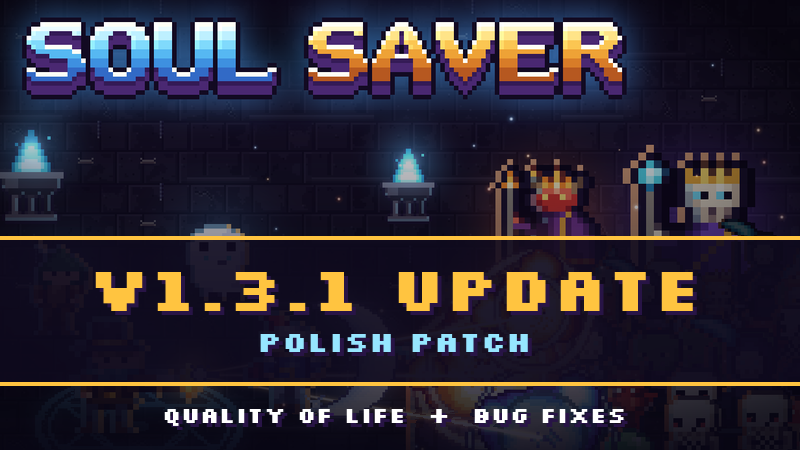
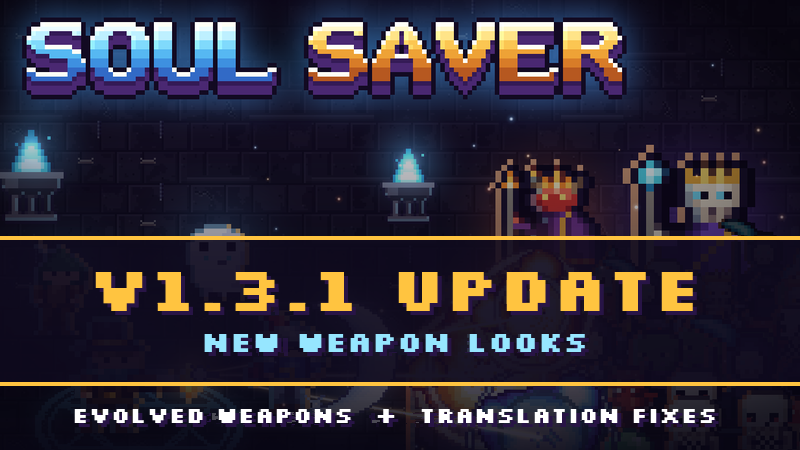
chore: 버전 1.5.6 — 진화 무기 손 그림 · 무기별 평타 동작 · 필살기 전용 도트 이펙트, 언어 전환 글 남음 일괄 수정, 한계 돌파 몹 체력 상승, 스팀 공지 V1.3.1 소규모(4개 언어 · 게임 안 패치노트 · 표시 이미지)

Changed region(s): [[0.0938, 0.9022, 0.9062, 0.9644], [0.25, 0.7156, 0.75, 0.8089]]

diff --git a/tools/patchnotes_steam.py b/tools/patchnotes_steam.py
@@ -10,6 +10,7 @@ ANN = os.path.join(ROOT, "docs", "steam", "announcements")
 
 # 스팀 게시판에 올라간 공지 (최신이 위) — 게임 안 「패치노트」 목록의 왼쪽 표시 · 공지 파일
 POSTS = [
+    ("v1.3.1", "v1.3.1.md"),
     ("v1.3", "v1.3.md"),
     ("v1.2.4", "v1.2.4.md"),
     ("v1.2.3", "v1.2.3.md"),

diff --git a/docs/steam/announcements/v1.3.1.md b/docs/steam/announcements/v1.3.1.md
@@ -1,0 +1,132 @@
+# 스팀 공지 — V1.3.1 (진화 무기 새 모습 · 번역 개선)
+
+종류: 게임 업데이트 · 소규모 업데이트 (사용자 「소규모 업데이트로 올려」) / 표시 이미지: docs/steam/art/events/v1.3.1_800x450.png / 빌드 연결: Default 브랜치 1.5.6
+공지 범위: 게임 1.5.4 ~ 1.5.6 (1.5.5 잠수함 패치 내용은 적지 않음 · 1.5.4 글자 깨짐 핫픽스는 버그 수정 한 줄)
+
+=== ko
+제목: V1.3.1 — 진화 무기 새 모습 · 번역 개선
+부제: 진화 무기의 모습과 동작, 필살기 효과를 새로 그리고, 언어를 바꿔도 남던 글자 문제를 고쳤습니다.
+본문:
+[h2]⚔ 진화 무기 새 모습[/h2]
+[list]
+[*]영웅 전용 무기로 진화하면 손에 든 무기도 그 무기 모습으로 바뀝니다.
+[*]평타 동작이 무기마다 달라집니다. (망치는 내려찍기, 창은 찌르기, 채찍은 휘감기, 병 · 소포는 던지기 등)
+[*]진화 무기 24종의 필살기와 평타 효과를 무기에 어울리는 새 도트 그림으로 바꿨습니다. (먹물 파도, 트럼프 카드, 갈라지는 땅, 측량 사슬, 시계판 등)
+[*]무기를 키울수록 새 효과도 단계마다 더 화려해집니다.
+[/list]
+[h2]🗺 지도 제작자[/h2]
+[list]
+[*]닫힌 도형(정밀 측량의 사각형 등)이 획에 가려지지 않고 또렷하게 보입니다.
+[*]「일필」처럼 도형이 닫히지 않는 판에서는 도형 전용 카드에 「지금은 효과 없음」이 표시되고, 덜 나옵니다.
+[/list]
+[h2]✨ 편의성 개선[/h2]
+[list]
+[*]어려움을 고르면 나오는 「영혼의 무게」 버튼을 다른 메뉴와 같은 모습으로 정돈했습니다.
+[/list]
+[h2]⚖ 밸런스 조정[/h2]
+[list]
+[*]무한 모드 한계 돌파 이후 잡몹 · 중간 보스 체력: 그대로 → 1분마다 ×1.15 (10분 ×4, 20분 ×16, 최대 ×10,000)
+[/list]
+[h2]🔧 버그 수정[/h2]
+[list]
+[*]언어를 바꿔도 레벨업 버튼 · 카드 이름 · HUD · 계약 · 튜토리얼 등 일부 글자가 이전 언어로 남던 문제를 고쳤습니다.
+[*]일부 환경에서 글자가 모두 깨지던 문제를 고쳤습니다.
+[*]뻐꾸기 · 비둘기가 왼쪽으로 날 때도 오른쪽을 보던 문제, 편지 비둘기가 세로로 서서 날던 문제를 고쳤습니다.
+[/list]
+[p]플레이해 주셔서 감사합니다![/p]
+
+=== en
+Title: V1.3.1 — New Look for Evolved Weapons · Translation Fixes
+Subtitle: Evolved weapons get new art, attack motions and ultimate effects, and text no longer stays in the old language after switching.
+Body:
+[h2]⚔ New Look for Evolved Weapons[/h2]
+[list]
+[*]When your hero evolves into a signature weapon, the weapon in their hand now changes to match.
+[*]Basic attack motions now differ by weapon (hammers slam, lances thrust, whips lash, flasks and parcels are thrown, and more).
+[*]The ultimates and basic attack effects of all 24 evolved weapons have new pixel art that fits each weapon (ink waves, playing cards, cracking ground, survey chains, clock faces and more).
+[*]These new effects also get flashier with each upgrade tier.
+[/list]
+[h2]🗺 Cartographer[/h2]
+[list]
+[*]Closed shapes (such as Precise Survey's squares) are now clearly visible instead of being hidden under your strokes.
+[*]In runs where shapes never close (such as Single Stroke), shape-only cards now say "No effect right now" and appear less often.
+[/list]
+[h2]✨ Quality of Life[/h2]
+[list]
+[*]The Soul Weight button that appears on Hard now matches the other menu buttons.
+[/list]
+[h2]⚖ Balance Changes[/h2]
+[list]
+[*]Endless mode, after Beyond the Limit — regular enemy and mid-boss HP: unchanged → ×1.15 every minute (×4 at 10 min, ×16 at 20 min, up to ×10,000)
+[/list]
+[h2]🔧 Bug Fixes[/h2]
+[list]
+[*]Fixed some text (level-up button, card names, HUD, contracts, tutorial and more) staying in the previous language after changing the language.
+[*]Fixed all text appearing broken on some systems.
+[*]Fixed cuckoos and pigeons facing right while flying left, and letter pigeons flying upright.
+[/list]
+[p]Thanks for playing![/p]
+
+=== ja
+タイトル: V1.3.1 — 進化武器の新しい見た目・翻訳の改善
+サブタイトル: 進化武器の見た目と動き、必殺技のエフェクトを描き直し、言語を変えても残っていた文字の問題を直しました。
+本文:
+[h2]⚔ 進化武器の新しい見た目[/h2]
+[list]
+[*]ヒーロー専用武器に進化すると、手に持つ武器もその武器の見た目に変わります。
+[*]通常攻撃の動きが武器ごとに変わります。(ハンマーは振り下ろし、槍は突き、鞭は巻きつけ、瓶や小包は投げるなど)
+[*]進化武器24種の必殺技と通常攻撃エフェクトを、武器に合った新しいドット絵にしました。(墨の波、トランプ、割れる大地、測量の鎖、時計の文字盤など)
+[*]武器を育てるほど、新しいエフェクトも段階ごとに華やかになります。
+[/list]
+[h2]🗺 地図職人[/h2]
+[list]
+[*]閉じた図形(精密測量の四角形など)が画線に隠れず、はっきり見えるようになりました。
+[*]「一筆」のように図形が閉じないプレイでは、図形専用カードに「今は効果がありません」と表示され、出にくくなります。
+[/list]
+[h2]✨ 利便性の改善[/h2]
+[list]
+[*]ハードを選ぶと出る「魂の重み」ボタンを、ほかのメニューと同じ見た目に整えました。
+[/list]
+[h2]⚖ バランス調整[/h2]
+[list]
+[*]エンドレスモード限界突破後の雑魚・中ボスの体力: 変化なし → 1分ごとに×1.15 (10分で×4、20分で×16、最大×10,000)
+[/list]
+[h2]🔧 バグ修正[/h2]
+[list]
+[*]言語を変えても、レベルアップボタン・カード名・HUD・契約・チュートリアルなど一部の文字が前の言語のまま残る問題を修正しました。
+[*]一部の環境で文字がすべて化ける問題を修正しました。
+[*]カッコウとハトが左に飛ぶときも右を向く問題、手紙のハトが縦向きに飛ぶ問題を修正しました。
+[/list]
+[p]プレイしていただきありがとうございます！[/p]
+
+=== zh
+标题: V1.3.1 — 进化武器新外观 · 翻译改进
+副标题: 重新绘制了进化武器的外观、动作和必杀技特效，并修复了切换语言后文字残留的问题。
+正文:
+[h2]⚔ 进化武器新外观[/h2]
+[list]
+[*]英雄进化为专属武器后，手中的武器也会变成对应的外观。
+[*]普通攻击的动作会因武器而异。(锤子下砸、长枪突刺、鞭子挥卷、瓶子和包裹投掷等)
+[*]24种进化武器的必杀技和普通攻击特效换成了贴合武器的新像素图。(墨浪、扑克牌、裂开的大地、测量锁链、钟面等)
+[*]武器培养得越强，新特效也会随阶段变得更华丽。
+[/list]
+[h2]🗺 制图师[/h2]
+[list]
+[*]闭合的图形(如精密测量的方形)不再被笔画遮住，看得更清楚。
+[*]在图形不会闭合的对局中(如「一笔」)，图形专用卡会显示「目前没有效果」，并且出现得更少。
+[/list]
+[h2]✨ 便利性改进[/h2]
+[list]
+[*]选择困难时出现的「灵魂之重」按钮已与其他菜单统一外观。
+[/list]
+[h2]⚖ 平衡调整[/h2]
+[list]
+[*]无尽模式突破极限后的杂兵 · 中首领生命值: 不变 → 每分钟 ×1.15 (10分钟 ×4，20分钟 ×16，最高 ×10,000)
+[/list]
+[h2]🔧 错误修复[/h2]
+[list]
+[*]修复了切换语言后，升级按钮 · 卡牌名称 · HUD · 契约 · 教程等部分文字仍停留在之前语言的问题。
+[*]修复了部分环境下所有文字显示乱码的问题。
+[*]修复了布谷鸟和鸽子向左飞时仍朝右的问题，以及信鸽竖着飞的问题。
+[/list]
+[p]感谢您的游玩！[/p]

diff --git a/docs/patch-notes/game/v1.5.6.md b/docs/patch-notes/game/v1.5.6.md
@@ -1,0 +1,106 @@
+# V1.3.1 — 진화 무기 새 모습 · 번역 개선
+진화 무기의 모습과 동작, 필살기 효과를 새로 그리고, 언어를 바꿔도 남던 글자 문제를 고쳤습니다.
+
+## 진화 무기 새 모습
+- 영웅 전용 무기로 진화하면 손에 든 무기도 그 무기 모습으로 바뀝니다.
+- 평타 동작이 무기마다 달라집니다. (망치는 내려찍기, 창은 찌르기, 채찍은 휘감기, 병 · 소포는 던지기 등)
+- 진화 무기 24종의 필살기와 평타 효과를 무기에 어울리는 새 도트 그림으로 바꿨습니다. (먹물 파도, 트럼프 카드, 갈라지는 땅, 측량 사슬, 시계판 등)
+- 무기를 키울수록 새 효과도 단계마다 더 화려해집니다.
+
+## 지도 제작자
+- 닫힌 도형(정밀 측량의 사각형 등)이 획에 가려지지 않고 또렷하게 보입니다.
+- 「일필」처럼 도형이 닫히지 않는 판에서는 도형 전용 카드에 「지금은 효과 없음」이 표시되고, 덜 나옵니다.
+
+## 편의성 개선
+- 어려움을 고르면 나오는 「영혼의 무게」 버튼을 다른 메뉴와 같은 모습으로 정돈했습니다.
+
+## 밸런스 조정
+- 무한 모드 한계 돌파 이후 잡몹 · 중간 보스 체력: 그대로 → 1분마다 ×1.15 (10분 ×4, 20분 ×16, 최대 ×10,000)
+
+## 버그 수정
+- 언어를 바꿔도 레벨업 버튼 · 카드 이름 · HUD · 계약 · 튜토리얼 등 일부 글자가 이전 언어로 남던 문제를 고쳤습니다.
+- 일부 환경에서 글자가 모두 깨지던 문제를 고쳤습니다.
+- 뻐꾸기 · 비둘기가 왼쪽으로 날 때도 오른쪽을 보던 문제, 편지 비둘기가 세로로 서서 날던 문제를 고쳤습니다.
+
+플레이해 주셔서 감사합니다!
+
+=== en
+# V1.3.1 — New Look for Evolved Weapons · Translation Fixes
+Evolved weapons get new art, attack motions and ultimate effects, and text no longer stays in the old language after switching.
+
+## New Look for Evolved Weapons
+- When your hero evolves into a signature weapon, the weapon in their hand now changes to match.
+- Basic attack motions now differ by weapon (hammers slam, lances thrust, whips lash, flasks and parcels are thrown, and more).
+- The ultimates and basic attack effects of all 24 evolved weapons have new pixel art that fits each weapon (ink waves, playing cards, cracking ground, survey chains, clock faces and more).
+- These new effects also get flashier with each upgrade tier.
+
+## Cartographer
+- Closed shapes (such as Precise Survey's squares) are now clearly visible instead of being hidden under your strokes.
+- In runs where shapes never close (such as Single Stroke), shape-only cards now say "No effect right now" and appear less often.
+
+## Quality of Life
+- The Soul Weight button that appears on Hard now matches the other menu buttons.
+
+## Balance Changes
+- Endless mode, after Beyond the Limit — regular enemy and mid-boss HP: unchanged → ×1.15 every minute (×4 at 10 min, ×16 at 20 min, up to ×10,000)
+
+## Bug Fixes
+- Fixed some text (level-up button, card names, HUD, contracts, tutorial and more) staying in the previous language after changing the language.
+- Fixed all text appearing broken on some systems.
+- Fixed cuckoos and pigeons facing right while flying left, and letter pigeons flying upright.
+
+Thanks for playing!
+
+=== ja
+# V1.3.1 — 進化武器の新しい見た目・翻訳の改善
+進化武器の見た目と動き、必殺技のエフェクトを描き直し、言語を変えても残っていた文字の問題を直しました。
+
+## 進化武器の新しい見た目
+- ヒーロー専用武器に進化すると、手に持つ武器もその武器の見た目に変わります。
+- 通常攻撃の動きが武器ごとに変わります。(ハンマーは振り下ろし、槍は突き、鞭は巻きつけ、瓶や小包は投げるなど)
+- 進化武器24種の必殺技と通常攻撃エフェクトを、武器に合った新しいドット絵にしました。(墨の波、トランプ、割れる大地、測量の鎖、時計の文字盤など)
+- 武器を育てるほど、新しいエフェクトも段階ごとに華やかになります。
+
+## 地図職人
+- 閉じた図形(精密測量の四角形など)が画線に隠れず、はっきり見えるようになりました。
+- 「一筆」のように図形が閉じないプレイでは、図形専用カードに「今は効果がありません」と表示され、出にくくなります。
+
+## 利便性の改善
+- ハードを選ぶと出る「魂の重み」ボタンを、ほかのメニューと同じ見た目に整えました。
+
+## バランス調整
+- エンドレスモード限界突破後の雑魚・中ボスの体力: 変化なし → 1分ごとに×1.15 (10分で×4、20分で×16、最大×10,000)
+
+## バグ修正
+- 言語を変えても、レベルアップボタン・カード名・HUD・契約・チュートリアルなど一部の文字が前の言語のまま残る問題を修正しました。
+- 一部の環境で文字がすべて化ける問題を修正しました。
+- カッコウとハトが左に飛ぶときも右を向く問題、手紙のハトが縦向きに飛ぶ問題を修正しました。
+
+プレイしていただきありがとうございます！
+
+=== zh
+# V1.3.1 — 进化武器新外观 · 翻译改进
+重新绘制了进化武器的外观、动作和必杀技特效，并修复了切换语言后文字残留的问题。
+
+## 进化武器新外观
+- 英雄进化为专属武器后，手中的武器也会变成对应的外观。
+- 普通攻击的动作会因武器而异。(锤子下砸、长枪突刺、鞭子挥卷、瓶子和包裹投掷等)
+- 24种进化武器的必杀技和普通攻击特效换成了贴合武器的新像素图。(墨浪、扑克牌、裂开的大地、测量锁链、钟面等)
+- 武器培养得越强，新特效也会随阶段变得更华丽。
+
+## 制图师
+- 闭合的图形(如精密测量的方形)不再被笔画遮住，看得更清楚。
+- 在图形不会闭合的对局中(如「一笔」)，图形专用卡会显示「目前没有效果」，并且出现得更少。
+
+## 便利性改进
+- 选择困难时出现的「灵魂之重」按钮已与其他菜单统一外观。
+
+## 平衡调整
+- 无尽模式突破极限后的杂兵 · 中首领生命值: 不变 → 每分钟 ×1.15 (10分钟 ×4，20分钟 ×16，最高 ×10,000)
+
+## 错误修复
+- 修复了切换语言后，升级按钮 · 卡牌名称 · HUD · 契约 · 教程等部分文字仍停留在之前语言的问题。
+- 修复了部分环境下所有文字显示乱码的问题。
+- 修复了布谷鸟和鸽子向左飞时仍朝右的问题，以及信鸽竖着飞的问题。
+
+感谢您的游玩！

diff --git a/docs/patch-notes/v1.5.6.md b/docs/patch-notes/v1.5.6.md
@@ -1,0 +1,25 @@
+# v1.5.6 (2026-10-23)
+
+스팀 공지 V1.3.1 (소규모 업데이트) — 게임 1.5.4 ~ 1.5.6
+
+## 진화 무기 그림 · 동작
+- 영웅 전용 무기로 진화하면 손에 든 무기 그림이 바뀜 — `Resources/Weapons/weapon_kit_<번호>` 24종 (`tools/pixelart/make_kit_weapons.py`, PlayerLook)
+- 무기별 평타 동작 (PlayerLook.KitMove): 망치 · 우체통 내려찍기, 창 · 독침 찌르기, 채찍 · 와이어 채찍질, 카드 튕기기, 병 · 투창 · 소포 던지기, 지구본 · 모래시계 돌리기, 시계 흔들기, 사슬 크게 돌리기, 비둘기 날려 보내기, 자석 · 유령 부풀기 (판정 · 시간 그대로)
+- 진화 무기 필살기 · 평타 덧효과의 범용 도형(원 웅덩이 · 충격파 고리 · 단색 선)을 무기 전용 도트 그림 34장으로 교체 + 진화 단계 그림 62장 (`tools/pixelart/make_kit_ults.py`, 교체표 `docs/art/진화무기-이펙트-교체표.md`)
+- 도박 카드 · 투창 형태 평타 투사체를 트럼프 카드 · 투창 그림으로 (판정은 표창 · 화살 그대로)
+- 뻐꾸기 · 비둘기 방향 (`Fx.SpawnFacing`), 편지 비둘기가 세로로 서던 것
+- 재사용 이펙트를 꺼낼 때 뒤집기 초기화 (Fx.Setup)
+
+## 지도 제작자
+- 닫힌 도형 테두리를 획 위(AreaOrder +1 · +2)로 · 어두운 테 + 금색 · 0.9초 (예전 순서 16 이라 획 · 적 이펙트에 묻힘)
+- 도형이 닫히지 않는 판(일필 · 대형 도면 · 행군 없음)에서 도형 전용 카드 6장(측량 표식 · 끊기지 않는 선 · 범례 · 등고선 · 나침도 · 보물 지도)에 「지금은 효과 없음」 표시 · 뽑기 가중치 ×0.35 (LevelShop.MapShapeOnly)
+
+## 밸런스
+- 무한 모드 한계 돌파 뒤 잡몹 · 중간 보스 체력 1분마다 ×1.15, 최대 ×10,000 (GameMode.BeyondHpMul) · 적 체력 계산 10억 상한 (int 넘침 방지) — 근거: 1.5.2 외부 판 한계 돌파 2시간 넘게 버팀 (화력이 몹 체력 상한 ×10 을 넘어 공격력 상승이 소용없었음)
+
+## 편의성
+- 메인 메뉴 「영혼의 무게」 버튼을 새 UI 석판 · 왼쪽 정렬 · 메뉴 줄 간격으로
+
+## 버그 수정
+- 언어를 바꿔도 이전 언어 글이 남던 문제 일괄 (Loc.Version · Loc.KeyOf): 장면 글 번역기(이전 언어 글을 거꾸로 찾아 다시 번역), 레벨업 대기 버튼, 카드 이름 · 레벨업 카드, HUD 묶음 이름 · 스킬 툴팁, 계약 · 각인 판, 튜토리얼 단계, 중간 보스 이름표, 도움말, 상점, 연속 n일, LocRefresh 가 꺼진 동안 놓친 변경
+- (1.5.4) 글자가 모두 깨지던 문제 — TMP 기본 리소스 Unity 6 판으로
